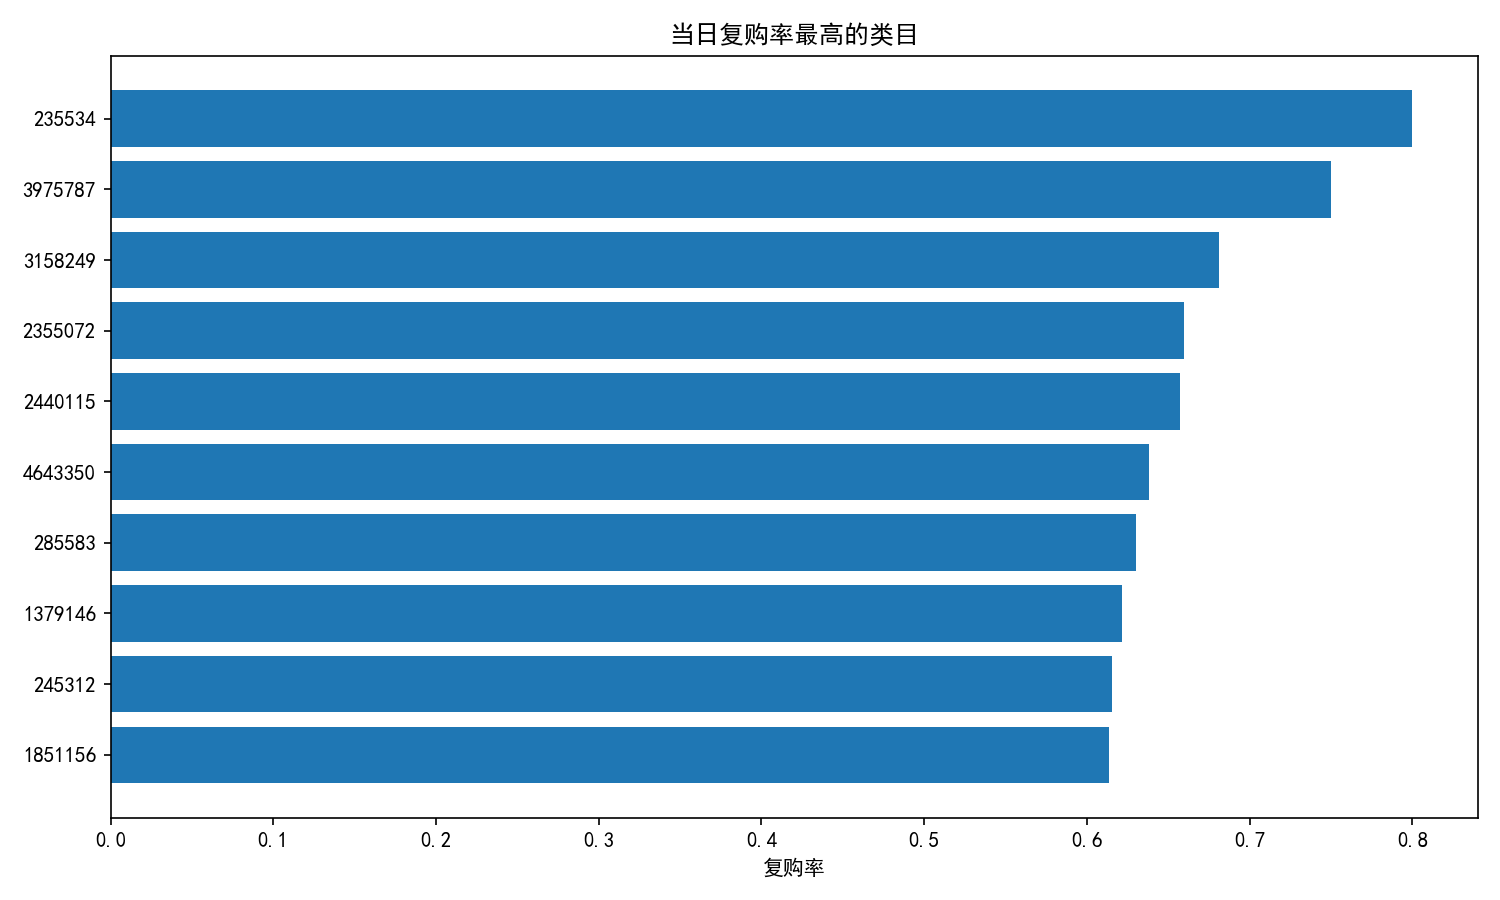
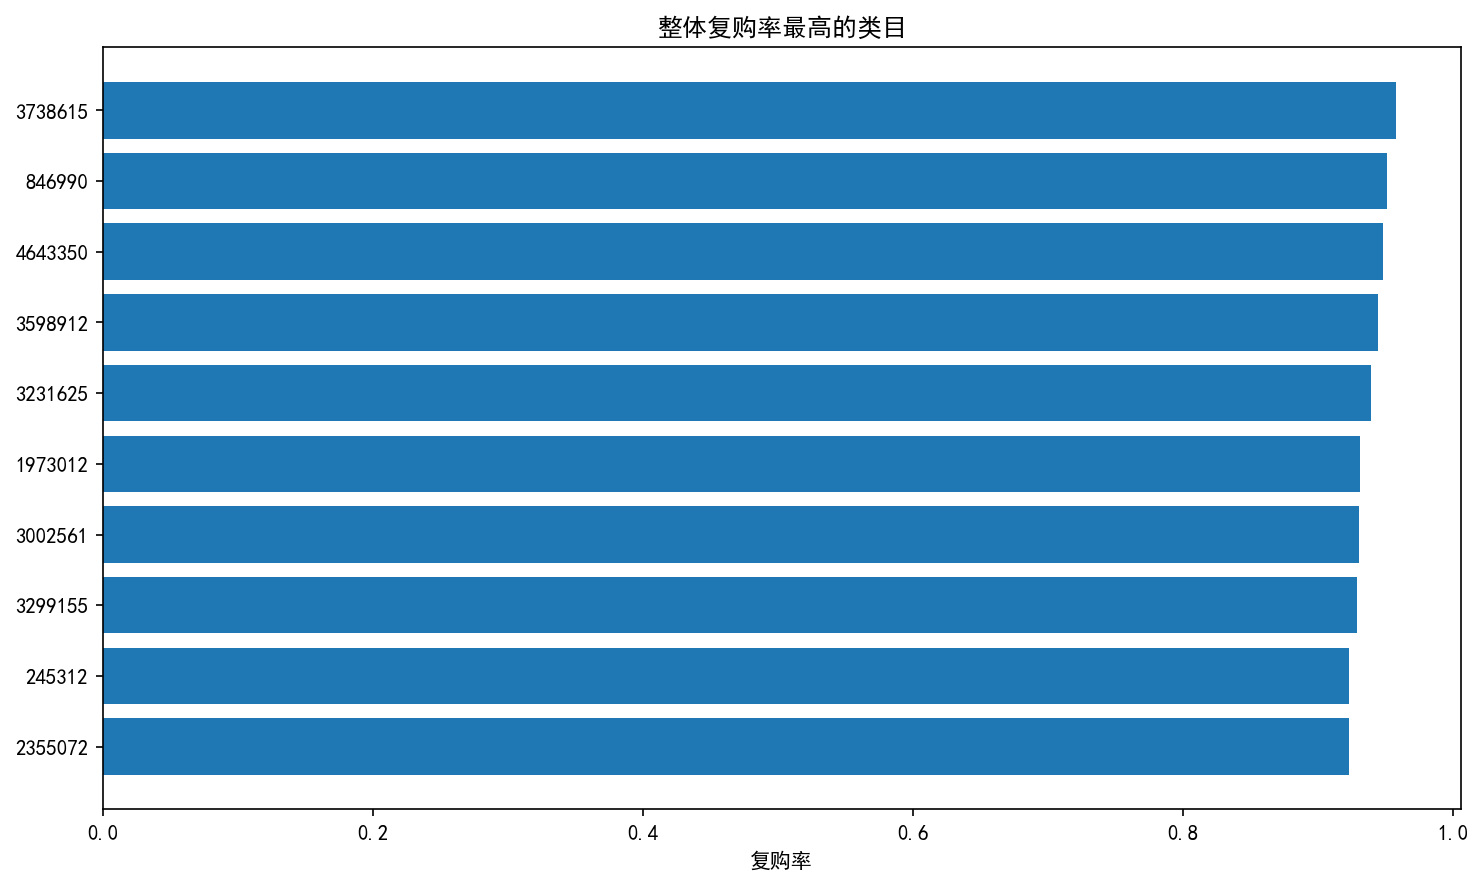
Add same_day_top_categories.png and update category plot function

Changed region(s): [[0.0, 0.061, 0.9926, 1.0], [0.4343, 0.0, 0.6204, 0.061]]

diff --git a/scripts/analysis.py b/scripts/analysis.py
@@ -156,15 +156,17 @@ def category_same_day_repurchase_rate(purchase, min_users=30):
     cat_same = cat_same[cat_same['total_users'] >= min_users]
     return cat_same.sort_values('same_day_rate', ascending=False)
 
-def plot_top_categories(cat_rep, top_n=10, title='复购率最高的类目', value_col='repurchase_rate'):
+def plot_top_categories(cat_rep, top_n=10, title='整体复购率最高的类目', value_col='repurchase_rate', filename='top_categories.png'):
     top = cat_rep.head(top_n)
     plt.figure(figsize=(10,6))
     plt.barh(top.index.astype(str), top[value_col])
     plt.gca().invert_yaxis()
     plt.title(title)
-    plt.xlabel('复购率')
+    plt.xlabel('复购率' if value_col == 'repurchase_rate' else '当日复购率')
     plt.tight_layout()
-    plt.savefig(os.path.join(FIGURES_DIR, 'top_categories.png'), dpi=150)
+    save_path = os.path.join(FIGURES_DIR, filename)
+    plt.savefig(save_path, dpi=150, bbox_inches='tight')
+    print(f"图表已保存至 {save_path}")
     plt.show()
 
 # ---------- 购买间隔分布图 ----------

diff --git a/scripts/main.py b/scripts/main.py
@@ -96,15 +96,17 @@ def main():
     plot_repurchase_interval(intervals_all)
 
     # 5.5 商品类目分析（整体复购率 + 当日复购率）
+    # 5.5 商品类目分析（整体复购率 + 当日复购率）
     print("\n=== 商品类目整体复购率分析 ===")
     cat_rep = category_repurchase_rate(purchase, min_users=50)
     print(cat_rep.head(10))
-    plot_top_categories(cat_rep, title='整体复购率最高的类目')
+    plot_top_categories(cat_rep, title='整体复购率最高的类目', filename='top_categories.png')
 
     print("\n=== 商品类目当日复购率分析（核心） ===")
     cat_same = category_same_day_repurchase_rate(purchase, min_users=30)
     print(cat_same.head(10))
-    plot_top_categories(cat_same, top_n=10, title='当日复购率最高的类目', value_col='same_day_rate')
+    plot_top_categories(cat_same, top_n=10, title='当日复购率最高的类目', value_col='same_day_rate',
+                        filename='same_day_top_categories.png')
 
     print("\n分析完成！")
 